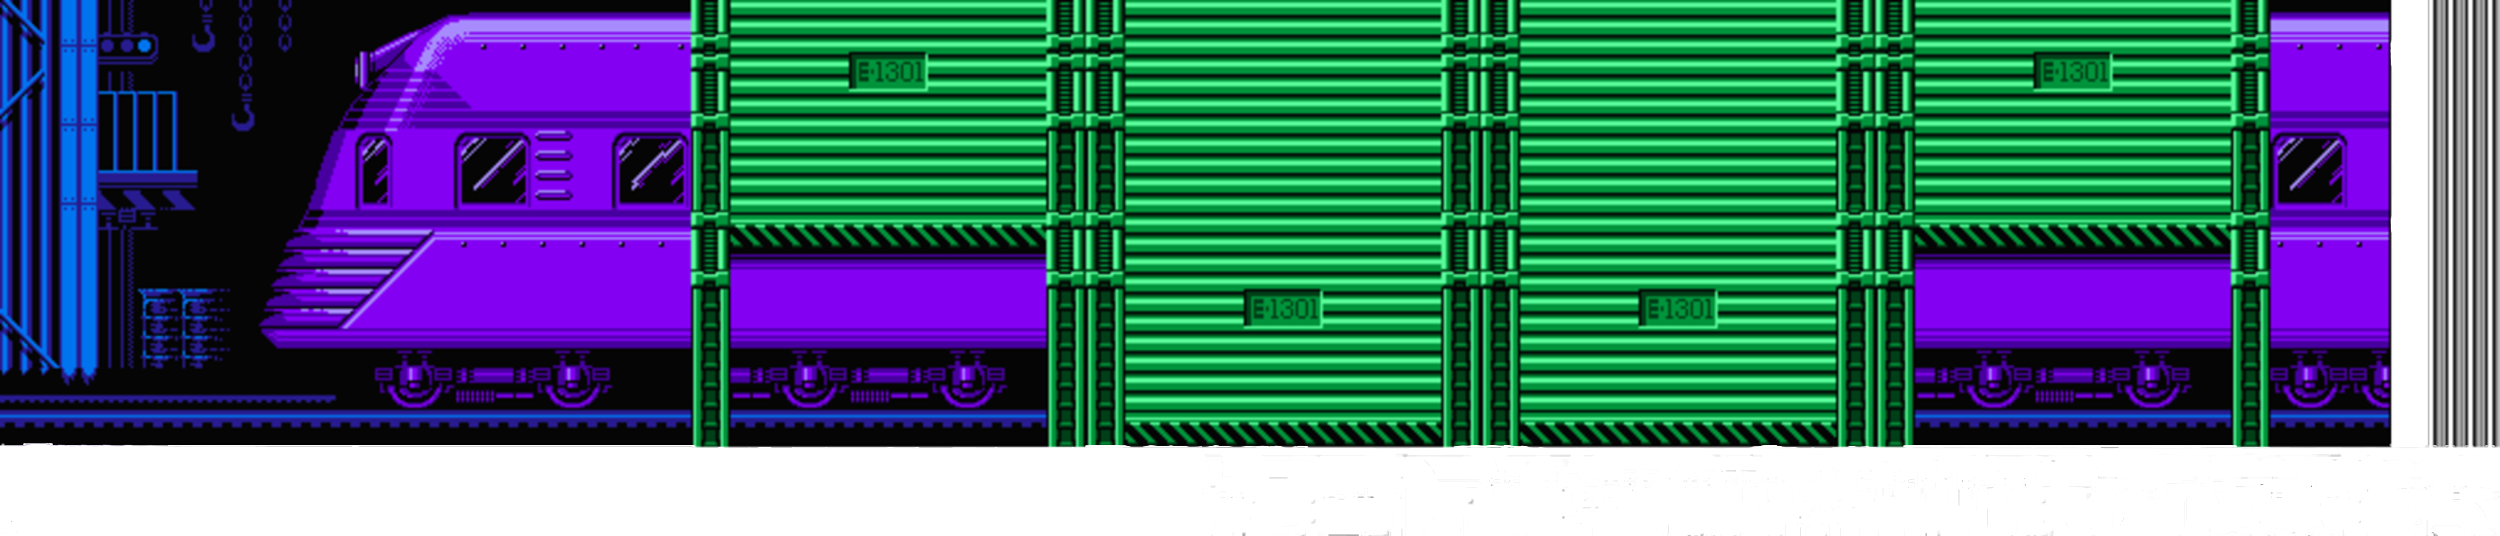
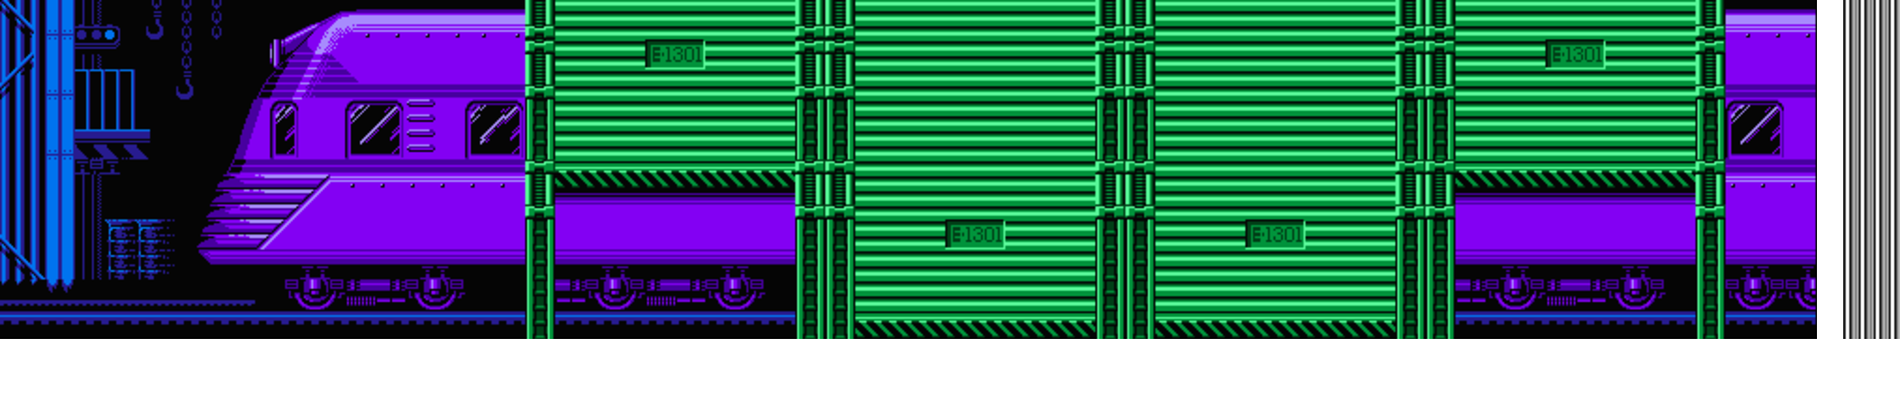
Mapa Agrandado

diff --git a/Clases/Controlador.py b/Clases/Controlador.py
@@ -34,8 +34,10 @@ class Controlador(object):
         ventana.blit(fondo.image, fondo.rect)
 
     @classmethod
-    def mover_pantalla(cls, fondo, Escalera, Enemigo):
-        if fondo.rect.x <= 0 and fondo.rect.x > -1200:
+    def mover_pantalla(cls, fondo, Escalera, Enemigo, Grupo):
+        if fondo.rect.x <= 0 and fondo.rect.x > -1700:
+            for Bala in Grupo:
+                Bala.rect.x -= 15
             Escalera.rect.x -= 15
             fondo.rect.x -= 15
             Enemigo.rect.x -= 15
@@ -122,6 +124,7 @@ class Controlador(object):
                 #     MegaMan.caerse()
 
             else:
+                MegaMan.rect.y += 10
                 if MegaMan.Bajando:
                     MegaMan.detenerse()
                     MegaMan.Bajando = False

diff --git a/Main.py b/Main.py
@@ -1,10 +1,10 @@
 import sys
 from Clases import *
 
-Principal = Mega_Man(20, 370, 90,90,"Imagenes/Inclinado.png")
-Enemigo = Enemigo(1500, 350, 110, 110, "Imagenes/Enemigos/Enemigo.png")
+Principal = Mega_Man(20, 535, 110, 110,"Imagenes/Inclinado.png")
+Enemigo = Enemigo(1500, 535, 130, 130, "Imagenes/Enemigos/Enemigo.png")
+Escalera = Escalera(2868,0,40, 650, "Fondo/Escaleras.png")
 Fondo = Fondo()
-Escalera = Escalera(2388,0,40, 499, "Fondo/Escaleras.png")
 ancho = 1280
 alto = 720
 ventana = Controlador.configurar_pantalla(ancho, alto)
@@ -14,7 +14,7 @@ FPS = 20
 frames_totales = 0
 segundos = 0
 
-Colocacion()
+Fondos = Colocacion()
 
 while True:
 

diff --git a/Clases/Colocacion.py b/Clases/Colocacion.py
@@ -9,17 +9,17 @@ def Colocacion():
     x = 0
 
     for i in range(21):
-        piso = Piso(x,445)
+        piso = Piso(x,630)
         x += 119
 
-    """x = 4320
-
-    for i in range(17):
-        piso = Piso(x,695)
-        x += 72
-
-    x = 5760
-
-    for i in range(6):
-        piso = Piso(x,695)
-        x += 72"""
+    # """x = 4320
+    #
+    # for i in range(17):
+    #     piso = Piso(x,695)
+    #     x += 72
+    #
+    # x = 5760
+    #
+    # for i in range(6):
+    #     piso = Piso(x,695)
+    #     x += 72"""

diff --git a/Clases/Acciones.py b/Clases/Acciones.py
@@ -22,9 +22,9 @@ def Acciones(reloj, MegaMan, FPS, frames_totales, Enemigo, fondo, Escalera):
         Enemigo.Disparar()
 
     if MegaMan.rect.x > 375 and (teclas[pygame.K_d] or teclas[pygame.K_RIGHT]):
-        if fondo.rect.x != -1200:
+        if fondo.rect.x > -1700:
             MegaMan.rect.x = 375
-            Controlador.mover_pantalla(fondo, Escalera, Enemigo)
+            Controlador.mover_pantalla(fondo, Escalera, Enemigo, Base.Balas)
 
     if Enemigo.rect.x < 0:
         Controlador.Eliminar_Enemigo(Enemigo)

diff --git a/Clases/Fondo.py b/Clases/Fondo.py
@@ -3,4 +3,4 @@ from .Base import *
 class Fondo(Base):
 
     def __init__(self):
-        Base.__init__(self,0, 0, 2500, 536, "Fondo/fondo.png")
+        Base.__init__(self,0, 0, 3000, 760, "Fondo/fondo.png")

diff --git a/Clases/Base.py b/Clases/Base.py
@@ -10,6 +10,7 @@ class Base(pygame.sprite.Sprite):
     piso = Sprites()
     bloques = Sprites()
     Escalera = Sprites()
+    Fondo = Sprites()
 
     def __init__(self, x, y, ancho, alto, ruta):
 
